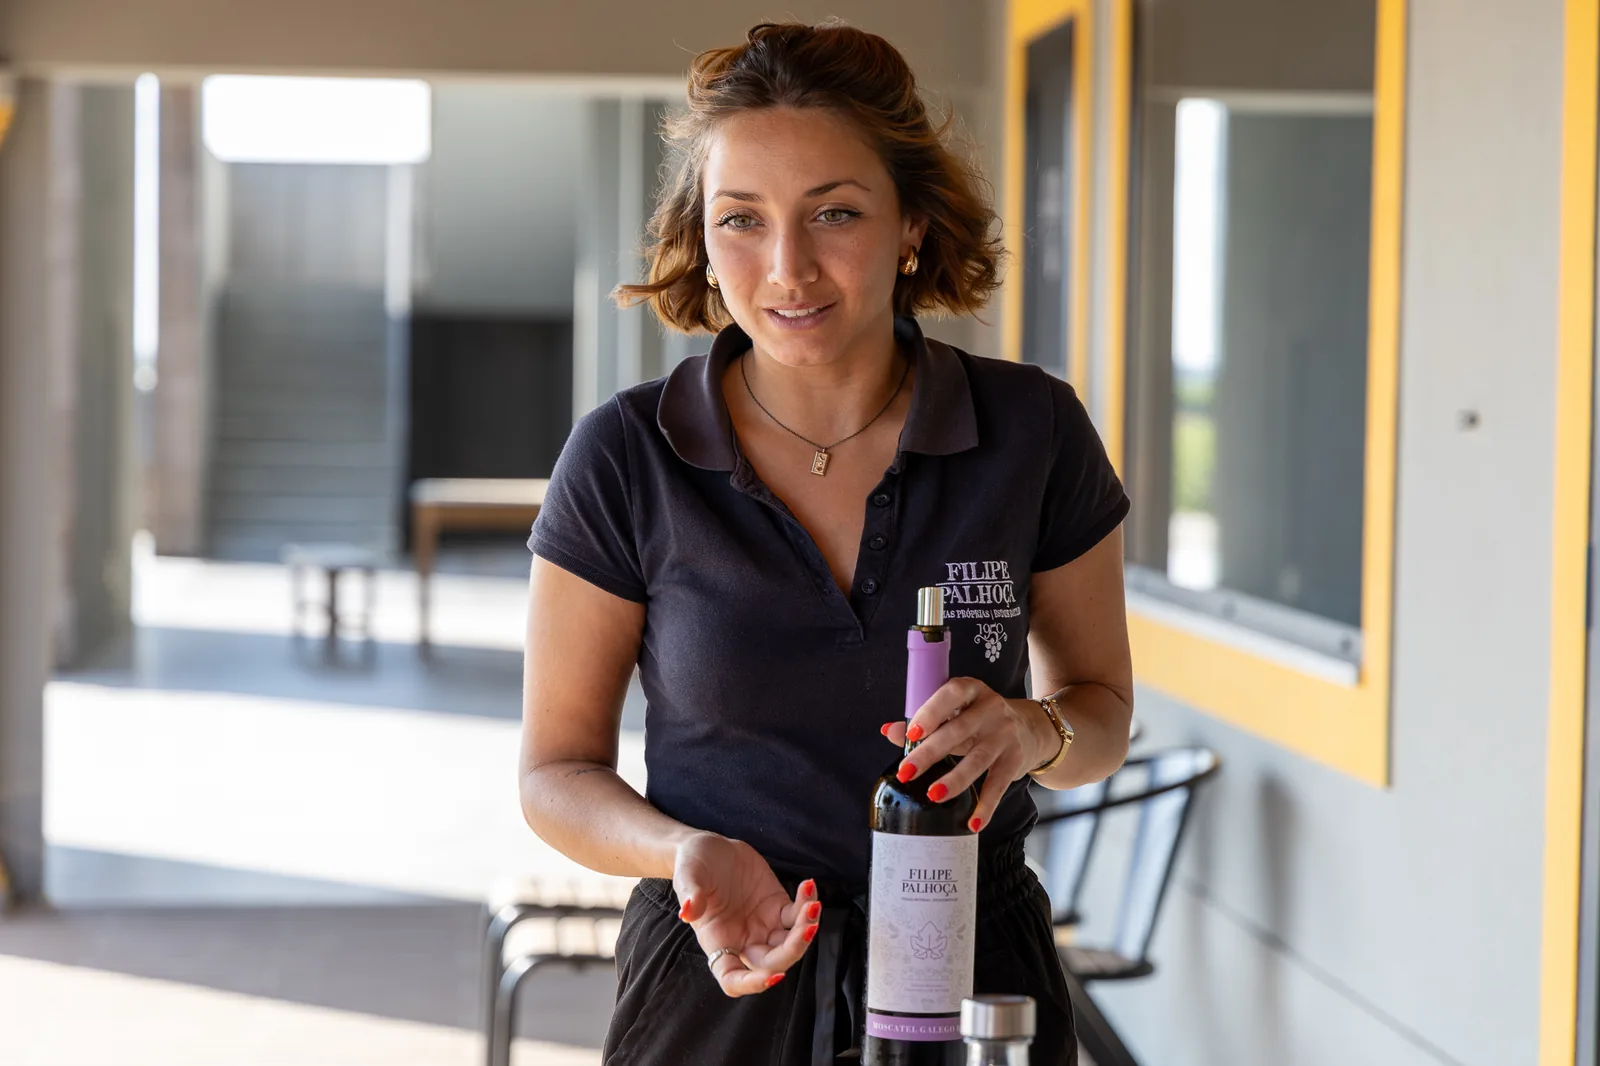
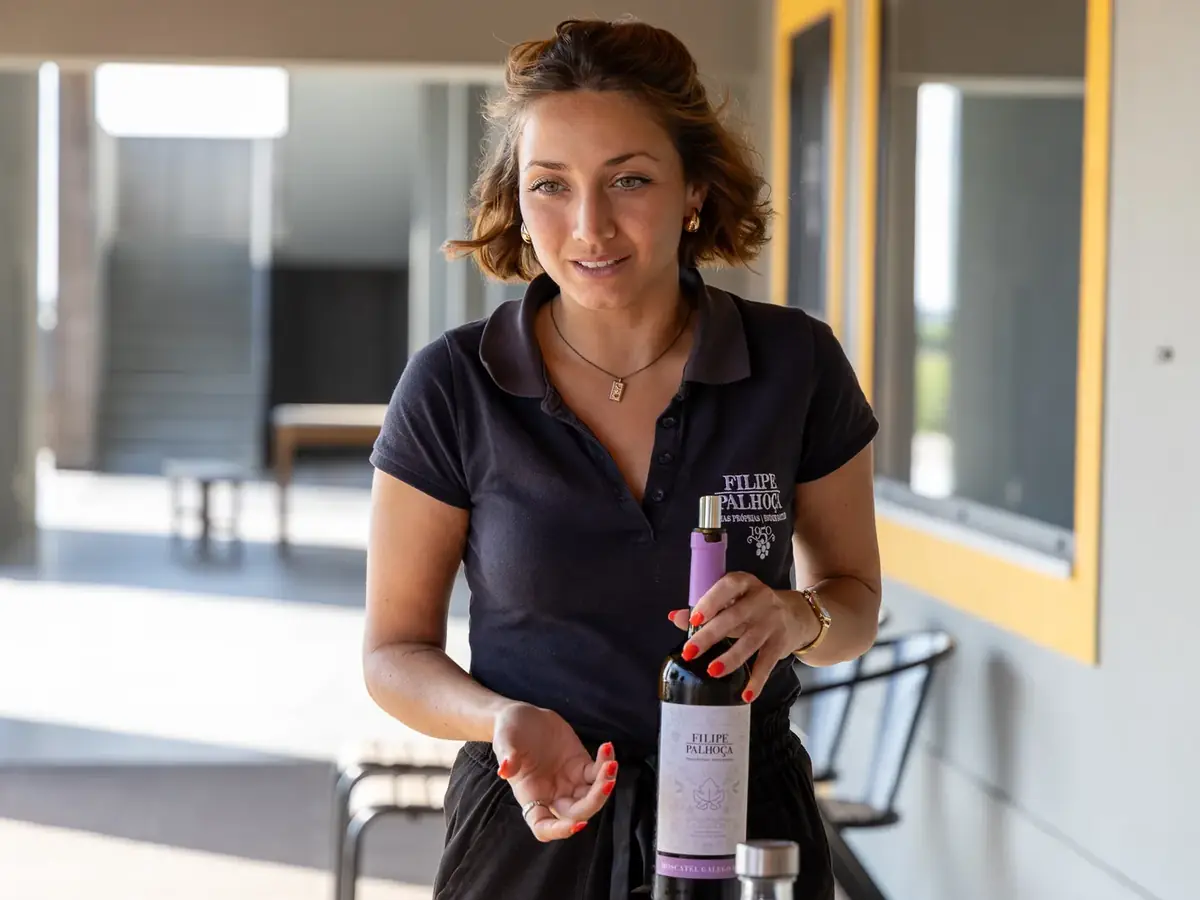
perf(images): crop files to container aspect; Indulgence hero further compressed
Lighthouse's image-aspect-ratio audit compares NATURAL file dims vs rendered,
not HTML attrs — so fixing the HTML alone last round didn't clear CLS. Now:

- Center-crop all non-hero images in /experiences/<slug>/ to 4:3 at 1200x900 q72.
  Visual was already cropped by object-fit:cover; this just moves the crop to
  build time so file ratio matches container.
- .xp-related-media: change container CSS from 16:10 to 3:2 (matches existing
  900x600 classic-cards files exactly). Revert HTML img attrs from 1600x1000
  back to 900x600.
- Indulgence hero: 61 KB (1280x854) -> 44 KB (1100x734 q66). HTML attrs updated.

Net: ~2.4 MB freed on disk; Sip/Graça CLS culprit gone; Indulgence LCP under
2.5s expected. Targets stable Performance ≥95 across all 3 pages.

diff --git a/classic/setubal-indulgence/index.html b/classic/setubal-indulgence/index.html
@@ -702,7 +702,7 @@
     }
     .xp-related-card { background: #fff; display: flex; flex-direction: column; transition: transform 300ms ease, box-shadow 300ms ease; }
     .xp-related-card:hover { transform: translateY(-3px); box-shadow: 0 12px 40px rgba(26,26,26,0.08); }
-    .xp-related-media { aspect-ratio: 16/10; overflow: hidden; }
+    .xp-related-media { aspect-ratio: 3/2; overflow: hidden; }
     .xp-related-media img { width: 100%; height: 100%; object-fit: cover; display: block; transition: transform 600ms ease; }
     .xp-related-card:hover .xp-related-media img { transform: scale(1.03); }
     .xp-related-body { padding: 24px 26px 28px; }
@@ -799,7 +799,7 @@
        Hero image: setubal-wine-tasting-pour-portugal.jpg (2200×1469).
        Preloaded in <head> with fetchpriority=high for LCP. Eager loading. -->
   <section class="hero xp-hero" id="hero">
-    <img class="xp-hero-img" src="../../assets/images/experiences/setubal-indulgence/setubal-wine-tasting-pour-portugal.webp" alt="Wine being poured during a premium wine tasting experience in Setúbal, Portugal" title="Premium Wine Tasting in Setúbal" width="1280" height="854" fetchpriority="high" decoding="async" />
+    <img class="xp-hero-img" src="../../assets/images/experiences/setubal-indulgence/setubal-wine-tasting-pour-portugal.webp" alt="Wine being poured during a premium wine tasting experience in Setúbal, Portugal" title="Premium Wine Tasting in Setúbal" width="1100" height="734" fetchpriority="high" decoding="async" />
 
     <div class="xp-hero-inner">
       <p class="xp-hero-eyebrow">Setúbal Peninsula · Full Day</p>
@@ -1156,7 +1156,7 @@
     <div class="xp-related-grid reveal">
       <a class="xp-related-card" href="/classic/sip-the-setubal-story/">
         <div class="xp-related-media">
-          <img src="../../assets/images/classic-cards/arrabida-coast-viewpoint-setubal-wine-tour-portugal.webp" alt="Coffee overlooking the Arrábida coastline during a wine tour in Portugal's Setúbal Peninsula." title="Sip the Setúbal Story" loading="lazy" decoding="async" width="1600" height="1000" />
+          <img src="../../assets/images/classic-cards/arrabida-coast-viewpoint-setubal-wine-tour-portugal.webp" alt="Coffee overlooking the Arrábida coastline during a wine tour in Portugal's Setúbal Peninsula." title="Sip the Setúbal Story" loading="lazy" decoding="async" width="900" height="600" />
         </div>
         <div class="xp-related-body">
           <p class="xp-related-region">Setúbal Peninsula · Half Day</p>
@@ -1166,7 +1166,7 @@
       </a>
       <a class="xp-related-card" href="/classic/graca-anjos-after-dark/">
         <div class="xp-related-media">
-          <img src="../../assets/images/classic-cards/lisbon-wine-bar-tour-guests-toasting-portugal.webp" alt="Guests toasting glasses of Portuguese wine during a guided wine bar tour in Lisbon." title="Graça & Anjos After Dark" loading="lazy" decoding="async" width="1600" height="1000" />
+          <img src="../../assets/images/classic-cards/lisbon-wine-bar-tour-guests-toasting-portugal.webp" alt="Guests toasting glasses of Portuguese wine during a guided wine bar tour in Lisbon." title="Graça & Anjos After Dark" loading="lazy" decoding="async" width="900" height="600" />
         </div>
         <div class="xp-related-body">
           <p class="xp-related-region">Lisbon · Evening</p>

diff --git a/classic/graca-anjos-after-dark/index.html b/classic/graca-anjos-after-dark/index.html
@@ -679,7 +679,7 @@
     }
     .xp-related-card { background: #fff; display: flex; flex-direction: column; transition: transform 300ms ease, box-shadow 300ms ease; }
     .xp-related-card:hover { transform: translateY(-3px); box-shadow: 0 12px 40px rgba(26,26,26,0.08); }
-    .xp-related-media { aspect-ratio: 16/10; overflow: hidden; }
+    .xp-related-media { aspect-ratio: 3/2; overflow: hidden; }
     .xp-related-media img { width: 100%; height: 100%; object-fit: cover; display: block; transition: transform 600ms ease; }
     .xp-related-card:hover .xp-related-media img { transform: scale(1.03); }
     .xp-related-body { padding: 24px 26px 28px; }
@@ -1010,7 +1010,7 @@
     <div class="xp-related-grid reveal">
       <a class="xp-related-card" href="/classic/sip-the-setubal-story/">
         <div class="xp-related-media">
-          <img src="../../assets/images/classic-cards/arrabida-coast-viewpoint-setubal-wine-tour-portugal.webp" alt="Coffee overlooking the Arrábida coastline during a wine tour in Portugal's Setúbal Peninsula." title="Sip the Setúbal Story" loading="lazy" decoding="async" width="1600" height="1000" />
+          <img src="../../assets/images/classic-cards/arrabida-coast-viewpoint-setubal-wine-tour-portugal.webp" alt="Coffee overlooking the Arrábida coastline during a wine tour in Portugal's Setúbal Peninsula." title="Sip the Setúbal Story" loading="lazy" decoding="async" width="900" height="600" />
         </div>
         <div class="xp-related-body">
           <p class="xp-related-region">Setúbal Peninsula · Half Day</p>
@@ -1020,7 +1020,7 @@
       </a>
       <a class="xp-related-card" href="/classic/setubal-indulgence/">
         <div class="xp-related-media">
-          <img src="../../assets/images/classic-cards/sunset-wine-experience-lisbon-portugal.webp" alt="Guest holding a glass of Portuguese wine at sunset overlooking Lisbon." title="Setúbal Indulgence" loading="lazy" decoding="async" width="1600" height="1000" />
+          <img src="../../assets/images/classic-cards/sunset-wine-experience-lisbon-portugal.webp" alt="Guest holding a glass of Portuguese wine at sunset overlooking Lisbon." title="Setúbal Indulgence" loading="lazy" decoding="async" width="900" height="600" />
         </div>
         <div class="xp-related-body">
           <p class="xp-related-region">Setúbal Peninsula · Full Day</p>

diff --git a/classic/sip-the-setubal-story/index.html b/classic/sip-the-setubal-story/index.html
@@ -740,7 +740,7 @@
     .xp-related-card { background: #fff; display: flex; flex-direction: column; transition: transform 300ms ease, box-shadow 300ms ease; }
     .xp-related-card:hover { transform: translateY(-3px); box-shadow: 0 12px 40px rgba(26,26,26,0.08); }
     .xp-related-media {
-      aspect-ratio: 16/10;
+      aspect-ratio: 3/2;
       overflow: hidden;
     }
     .xp-related-media img {
@@ -1156,7 +1156,7 @@
     <div class="xp-related-grid reveal">
       <a class="xp-related-card" href="/classic/setubal-indulgence/">
         <div class="xp-related-media">
-          <img src="../../assets/images/classic-cards/sunset-wine-experience-lisbon-portugal.webp" alt="Guest holding a glass of Portuguese wine at sunset overlooking Lisbon." title="Sunset Wine Experience in Portugal" loading="lazy" width="1600" height="1000" />
+          <img src="../../assets/images/classic-cards/sunset-wine-experience-lisbon-portugal.webp" alt="Guest holding a glass of Portuguese wine at sunset overlooking Lisbon." title="Sunset Wine Experience in Portugal" loading="lazy" width="900" height="600" />
         </div>
         <div class="xp-related-body">
           <p class="xp-related-region">Setúbal Peninsula · Full Day</p>
@@ -1166,7 +1166,7 @@
       </a>
       <a class="xp-related-card" href="/classic/graca-anjos-after-dark/">
         <div class="xp-related-media">
-          <img src="../../assets/images/classic-cards/lisbon-wine-bar-tour-guests-toasting-portugal.webp" alt="Guests toasting glasses of Portuguese wine during a guided wine bar tour in Lisbon." title="Lisbon Wine Bar Tour Experience" loading="lazy" width="1600" height="1000" />
+          <img src="../../assets/images/classic-cards/lisbon-wine-bar-tour-guests-toasting-portugal.webp" alt="Guests toasting glasses of Portuguese wine during a guided wine bar tour in Lisbon." title="Lisbon Wine Bar Tour Experience" loading="lazy" width="900" height="600" />
         </div>
         <div class="xp-related-body">
           <p class="xp-related-region">Lisbon · Evening</p>
